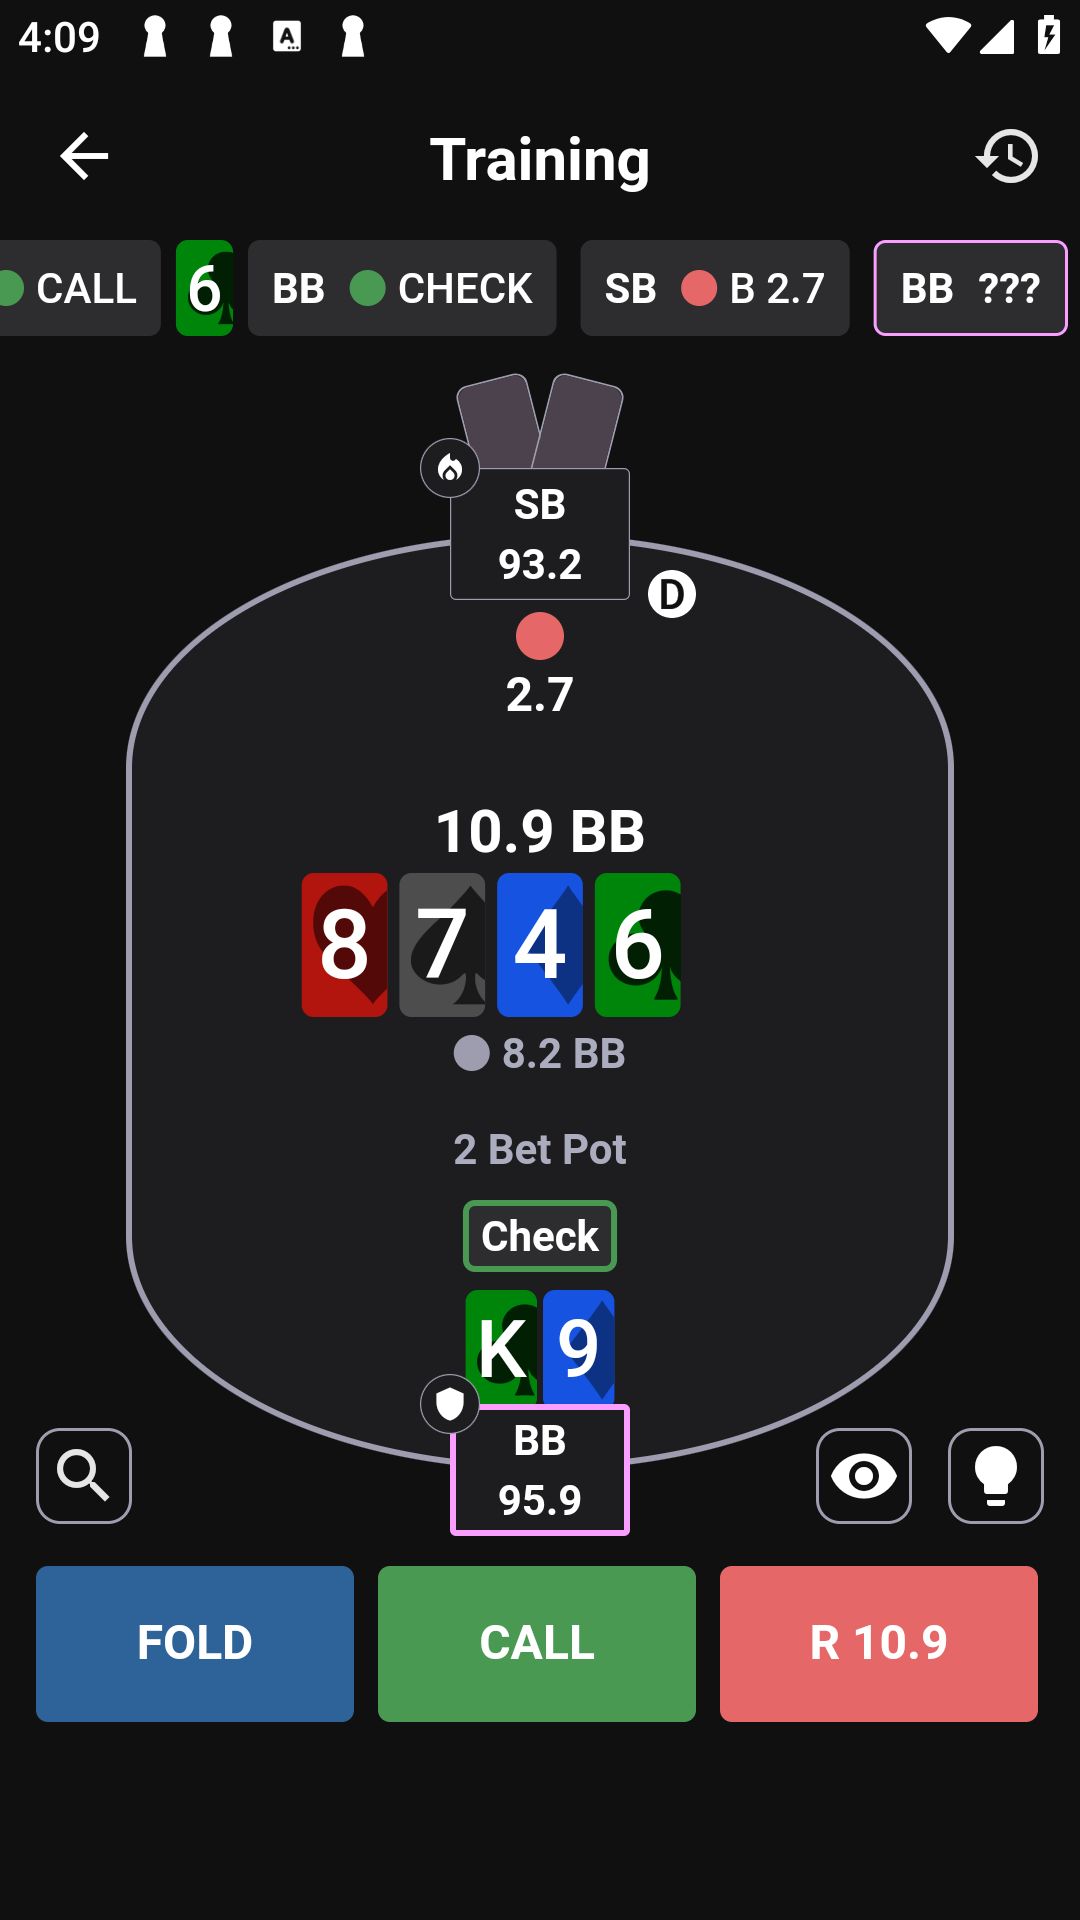
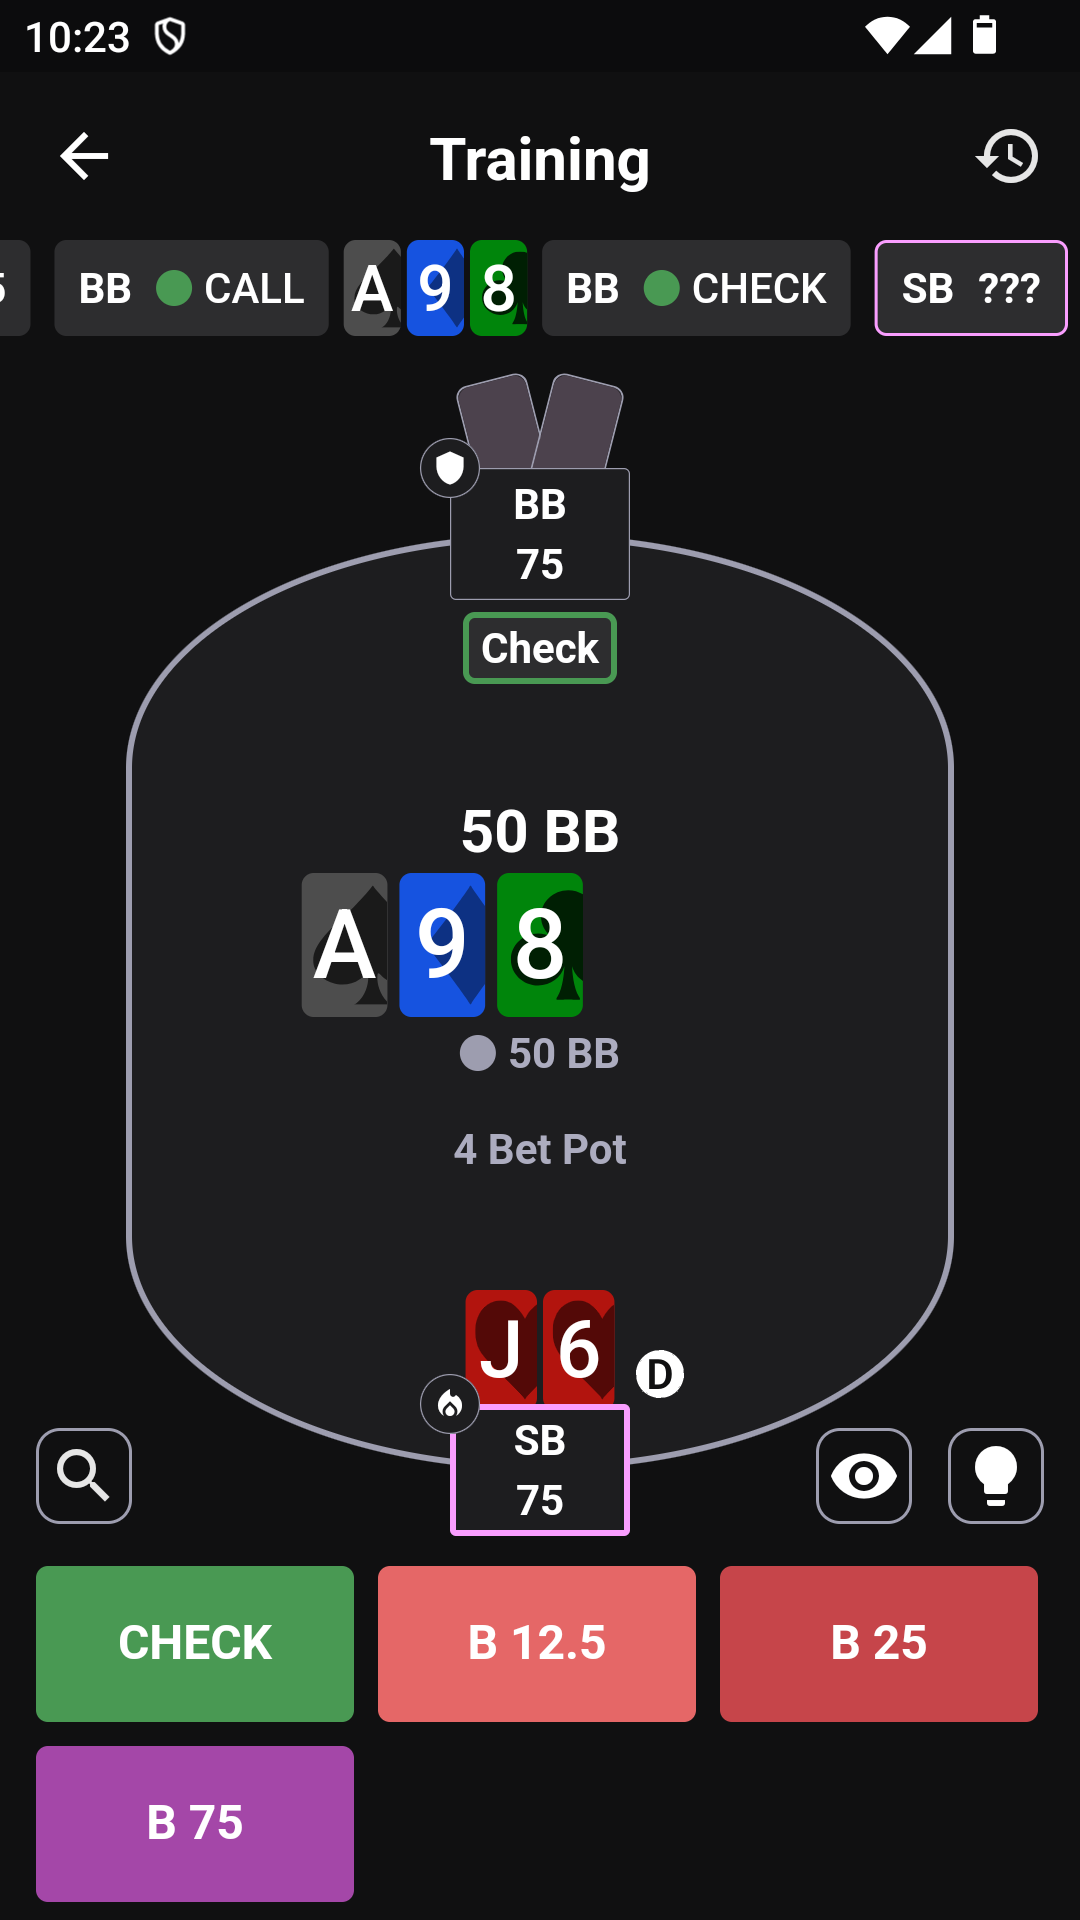
Fix the POT size change to different position when it's PRE and POST flop, using detect if it's preflop now by board cards.

diff --git a/src/detector/table_detector.py b/src/detector/table_detector.py
@@ -67,6 +67,32 @@ class PokerTableDetector:
         
         confidence, _ = self.template_matcher.match_template(roi, turn_template)
         return confidence > 0.8
+    
+    def is_preflop(self, screen: np.ndarray) -> bool:
+        """Determine if we're in preflop by checking for community cards"""
+        for region in COMMUNITY_CARD_REGIONS[:3]:  # Check first 3 cards (flop)
+            roi = screen[region['y1']:region['y2'], region['x1']:region['x2']]
+            card = self.detect_card(roi, is_hero=False)
+            if card:
+                return False
+        return True
+
+    def detect_pot_size(self, screen: np.ndarray) -> float:
+        """Detect pot size using appropriate region based on street"""
+        is_preflop_street = self.is_preflop(screen)
+        
+        # Try preflop region first if we're preflop
+        if is_preflop_street:
+            preflop_roi = screen[POT_REGION_PREFLOP['y1']:POT_REGION_PREFLOP['y2'], 
+                               POT_REGION_PREFLOP['x1']:POT_REGION_PREFLOP['x2']]
+            pot_size = self.text_detector.detect_value(preflop_roi)
+            if pot_size > 0:
+                return pot_size
+
+        # Try postflop region
+        postflop_roi = screen[POT_REGION_POSTFLOP['y1']:POT_REGION_POSTFLOP['y2'], 
+                            POT_REGION_POSTFLOP['x1']:POT_REGION_POSTFLOP['x2']]
+        return self.text_detector.detect_value(postflop_roi)
 
     def detect_table_state(self, screen: np.ndarray):
         # Detect hero cards
@@ -98,9 +124,7 @@ class PokerTableDetector:
             bets[player] = self.text_detector.detect_value(roi)
 
         # Detect pot
-        pot_roi = screen[POT_REGION['y1']:POT_REGION['y2'], 
-                        POT_REGION['x1']:POT_REGION['x2']]
-        pot_size = self.text_detector.detect_value(pot_roi)
+        pot_size = self.detect_pot_size(screen)
 
         # Add button detection
         button_positions = self.detect_button_position(screen)
@@ -115,6 +139,7 @@ class PokerTableDetector:
             'bets': bets,
             'pot_size': pot_size,
             'button_positions': button_positions,
-            'is_hero_turn': is_hero_turn
+            'is_hero_turn': is_hero_turn,
+            'is_preflop': self.is_preflop(screen)
         }
     

diff --git a/src/config/regions.py b/src/config/regions.py
@@ -26,6 +26,7 @@ BUTTON_REGIONS = {
     'hero': {'x1': 632, 'y1': 1347, 'x2': 688, 'y2': 1406}
 }
 
-POT_REGION = {'x1': 403, 'y1': 804, 'x2': 652, 'y2': 863}
+POT_REGION_PREFLOP = {'x1': 403, 'y1': 804, 'x2': 664, 'y2': 992}
+POT_REGION_POSTFLOP = {'x1': 403, 'y1': 804, 'x2': 652, 'y2': 863}
 
 HERO_TURN_REGION = {'x1':474, 'y1': 1521, 'x2': 618, 'y2': 1549}

diff --git a/main.py b/main.py
@@ -109,6 +109,7 @@ def main():
     app = PokerDetectorApp()
     print("Bot started. Press Ctrl+C to stop.")
     try:
+        #app.find_coordinates()
         app.run()
     except KeyboardInterrupt:
         print("\nShutting down gracefully...")
